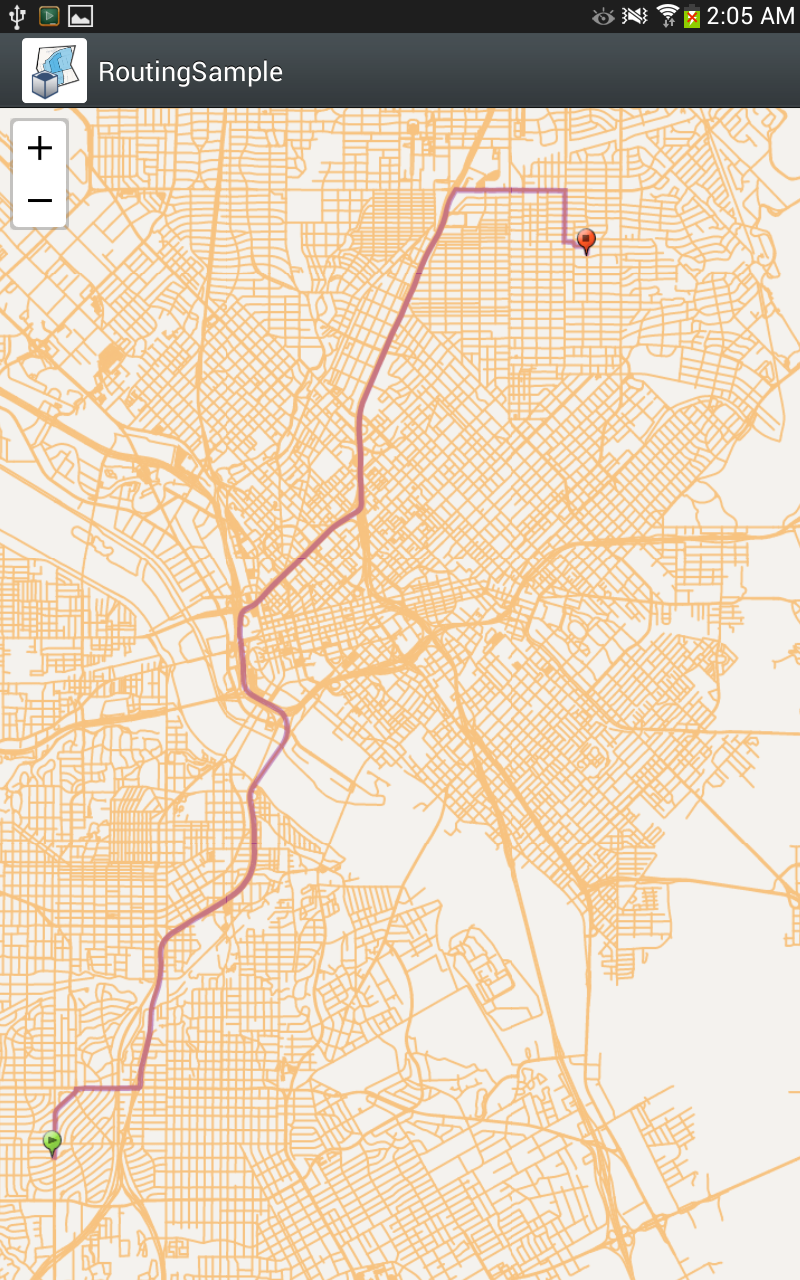
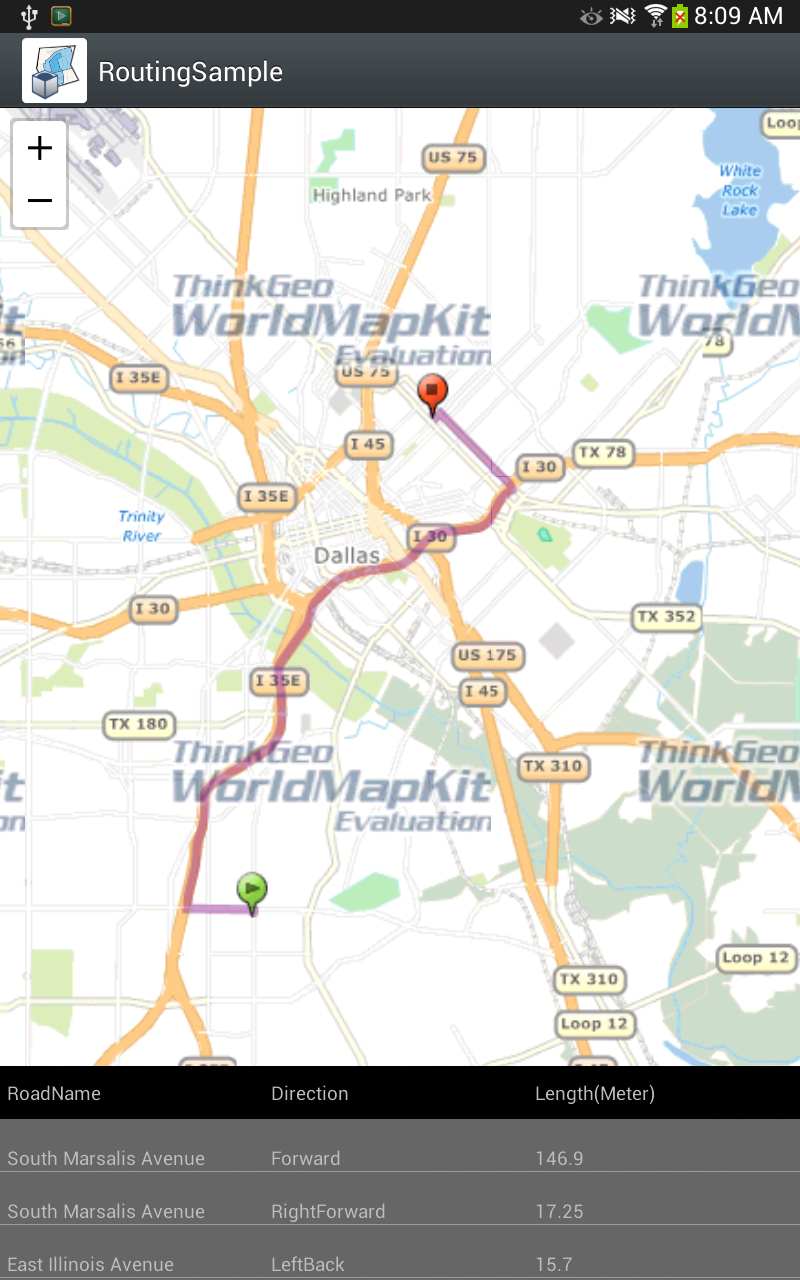
Add routing direction data

diff --git a/RoutingSampleAndroid/MainActivity.cs b/RoutingSampleAndroid/MainActivity.cs
@@ -5,6 +5,8 @@ using Android.Util;
 using Android.Views;
 using Android.Widget;
 using System;
+using System.Collections.Generic;
+using System.Collections.ObjectModel;
 using ThinkGeo.MapSuite;
 using ThinkGeo.MapSuite.Android;
 using ThinkGeo.MapSuite.Layers;
@@ -25,10 +27,12 @@ namespace RoutingSample
 
         protected override void OnCreate(Bundle bundle)
         {
+            
             base.OnCreate(bundle);
             SetContentView(Resource.Layout.Main);
             try
             {
+                
                 FrameLayout mapContainerView = FindViewById<FrameLayout>(Resource.Id.MapContainerView);
                 mapContainerView.RemoveAllViews();
                 mapView = new MapView(Application.Context);
@@ -49,12 +53,7 @@ namespace RoutingSample
             mapView.MapUnit = GeographyUnit.Meter;
             mapView.SingleTap += MapView_SingleTap;
 
-            LayerOverlay backgroundOverlay = new LayerOverlay();
-            ShapeFileFeatureLayer shapeFileFeatureLayer = new ShapeFileFeatureLayer(DataManager.GetDataPath("DallasCounty-3857.shp"));
-            shapeFileFeatureLayer.ZoomLevelSet.ZoomLevel01.DefaultLineStyle = WorldStreetsLineStyles.MotorwayFill(2.0f);
-            shapeFileFeatureLayer.ZoomLevelSet.ZoomLevel01.ApplyUntilZoomLevel = ApplyUntilZoomLevel.Level20;
-            backgroundOverlay.Layers.Add(shapeFileFeatureLayer);
-            mapView.Overlays.Add(backgroundOverlay);
+            mapView.Overlays.Add(new WorldStreetsAndImageryOverlay() { Projection = WorldStreetsAndImageryProjection.SphericalMercator});
 
             layerOverlay = new LayerOverlay();
             routingLayer = new RoutingLayer();
@@ -66,9 +65,10 @@ namespace RoutingSample
 
             routingEngine = new RoutingEngine(routingSource, featureSource);
             routingEngine.GeographyUnit = GeographyUnit.Meter;
-            routingEngine.SearchRadiusInMeters = 200;
+            routingEngine.SearchRadiusInMeters = 100;
 
             mapView.CurrentExtent = new RectangleShape(-10781100.2970769, 3875007.18710502, -10767407.8727504, 3854947.78546675);
+
         }
 
         private void MapView_SingleTap(object sender, SingleTapMapViewEventArgs e)
@@ -90,9 +90,31 @@ namespace RoutingSample
             {
                 RoutingResult routingResult = routingEngine.GetRoute(routingLayer.StartPoint, routingLayer.EndPoint);
                 routingLayer.Routes.Add(routingResult.Route);
+                ShowTurnByTurnDirections(routingResult.RouteSegments, routingResult.Features);
             }
 
             layerOverlay.Refresh();
+
+
+        }
+
+        private void ShowTurnByTurnDirections(Collection<RouteSegment> roads, Collection<Feature> features)
+        {
+            var directionListView = FindViewById<ListView>(Resource.Id.DirectionListView);
+
+            var directionData = new List<DirectionDataItem>();
+
+            for (int i = 0; i < roads.Count; i++)
+            {
+                var direction = new DirectionDataItem() {
+                    RoadName = features[i].ColumnValues["NAME"],
+                    Direction = roads[i].DrivingDirection.ToString(),
+                    Length = Math.Round(((LineBaseShape)features[i].GetShape()).GetLength(GeographyUnit.Meter, DistanceUnit.Meter), 2)
+                };
+                directionData.Add(direction);
+            }
+
+            directionListView.Adapter = new DirectionItemAdapter(this, directionData);
         }
     }
 }

diff --git a/RoutingSampleAndroid/DirectionItemAdapter.cs b/RoutingSampleAndroid/DirectionItemAdapter.cs
@@ -1,0 +1,62 @@
+using System;
+using System.Collections.Generic;
+using System.Linq;
+using System.Text;
+
+using Android.App;
+using Android.Content;
+using Android.OS;
+using Android.Runtime;
+using Android.Views;
+using Android.Widget;
+
+namespace RoutingSample
+{
+    class DirectionItemAdapter : BaseAdapter<DirectionDataItem>
+    {
+        private List<DirectionDataItem> directionItems;
+        private Activity context;
+
+        public DirectionItemAdapter(Activity context, List<DirectionDataItem> directionItems)
+        {
+            this.context = context;
+            this.directionItems = directionItems;
+        }
+
+        public override long GetItemId(int position)
+        {
+            return position;
+        }
+
+        public override DirectionDataItem this[int position]
+        {
+            get
+            {
+                return directionItems[position];
+            }
+        }
+
+        public override int Count
+        {
+            get
+            {
+                return directionItems.Count;
+            }
+        }
+
+        public override View GetView(int position, View convertView, ViewGroup parent)
+        {
+            var currentItem = directionItems[position];
+
+            var currentView = convertView;
+            if (currentView == null)
+                currentView = context.LayoutInflater.Inflate(Resource.Layout.Main, null);
+
+            currentView.FindViewById<TextView>(Resource.Id.RoadNameView).Text = currentItem.RoadName;
+            currentView.FindViewById<TextView>(Resource.Id.DirectionView).Text = currentItem.Direction;
+            currentView.FindViewById<TextView>(Resource.Id.LengthView).Text = currentItem.Length.ToString();
+
+            return currentView;
+        }
+    }
+}

diff --git a/RoutingSampleAndroid/Resources/Resource.Designer.cs b/RoutingSampleAndroid/Resources/Resource.Designer.cs
@@ -127,17 +127,29 @@ namespace RoutingSample
 		public partial class Id
 		{
 			
-			// aapt resource value: 0x7f050001
-			public const int MapContainerView = 2131034113;
-			
-			// aapt resource value: 0x7f050000
-			public const int RoutingLayout = 2131034112;
+			// aapt resource value: 0x7f050005
+			public const int DirectionListView = 2131034117;
 			
 			// aapt resource value: 0x7f050003
-			public const int uploadDataTextView = 2131034115;
+			public const int DirectionView = 2131034115;
+			
+			// aapt resource value: 0x7f050004
+			public const int LengthView = 2131034116;
+			
+			// aapt resource value: 0x7f050001
+			public const int ListViewHeader = 2131034113;
+			
+			// aapt resource value: 0x7f050000
+			public const int MapContainerView = 2131034112;
 			
 			// aapt resource value: 0x7f050002
-			public const int uploadProgressBar = 2131034114;
+			public const int RoadNameView = 2131034114;
+			
+			// aapt resource value: 0x7f050007
+			public const int uploadDataTextView = 2131034119;
+			
+			// aapt resource value: 0x7f050006
+			public const int uploadProgressBar = 2131034118;
 			
 			static Id()
 			{

diff --git a/RoutingSampleAndroid/DirectionDataItem.cs b/RoutingSampleAndroid/DirectionDataItem.cs
@@ -1,0 +1,9 @@
+namespace RoutingSample
+{
+    class DirectionDataItem
+    {
+        public string RoadName { get; set; }
+        public string Direction { get; set; }
+        public double Length { get; set; }
+    }
+}
